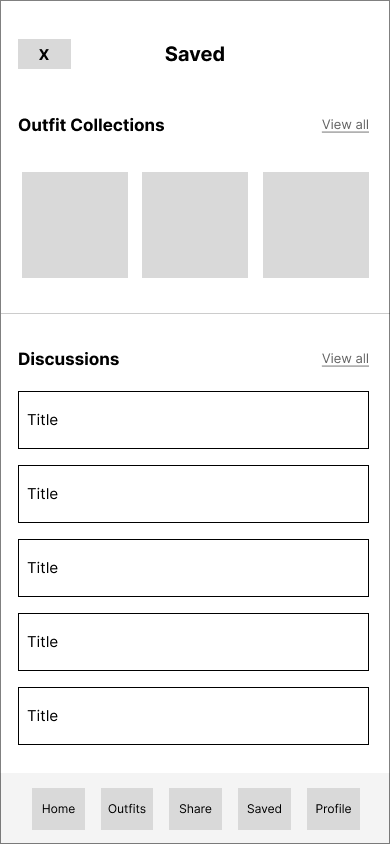
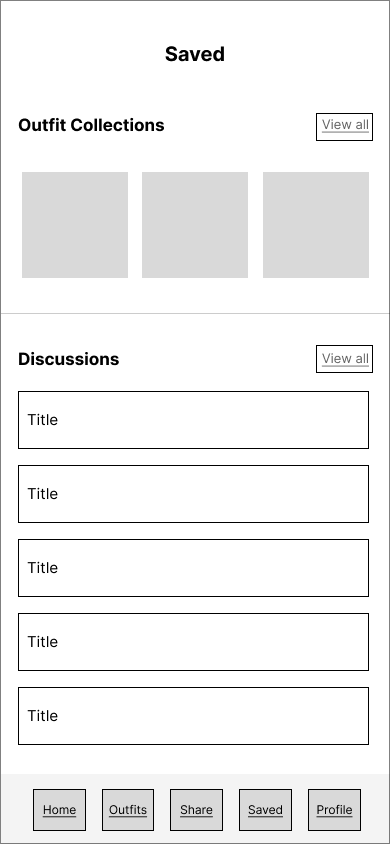
discussion and collection updated

diff --git a/UX-DESIGN.md b/UX-DESIGN.md
@@ -139,27 +139,47 @@ Replace the contents of this file with the completed assignments, as described i
 
 ### Saved Items :
 <img src="./ux-design/3a-saved-items.png" alt = "Saved Items" width = "25%"> <br/>
-
-- User can view their saved outfit posts and discussion threads in the "Saved" page. 
+- Displays saved outfit posts and discussion threads with titles.
 - Press "View All" to see an expanded view of the discussions or collections saved.
 - User may click on individual item and post to see their details.
-- Navigation bar is at the bottom of the screen.
-- User can exit the page by clicking the top-left "X" button.
+
+### Saved Outfit Collections:
+<img src="./ux-design/3h-saved-collections.png" alt = "Post discussion" width = "25%"> <br/>
+- Displays expanded view of the saved outfit collections.
+- User may click on listed outfits pictures to view the original post.
+- User can return to the previous the page by clicking the top-left "X" button.
+
+### Saved Discussions:
+<img src="./ux-design/3i-saved-discussions.png" alt = "Post discussion" width = "25%"> <br/>
+- Displays expanded view of the saved discussions with titles and an overview of the post.
+- User may click on listed discussions to view the original post.
+- User can return to the previous the page by clicking the top-left "X" button.
+
 
 ### Discussion Feed :
 <img src="./ux-design/3b-discussion-feed.png" alt = "Discussion Feed" width = "25%"> <br/>
 
-- Search for posts using the bar at the top.
+
 - Displays discussion posts with author information, date, title, and a pre-view of the post.
-- User may sort discussion posts by most recent or most popular.
-- Like a post by clicking on the heart icon at the bottom left 
-- Leave comments for a post by clicking on the message icon. User will enter the comment section of the post.
+- User can search for posts using the search bar "search HighVintage" at the top.
+- User may sort discussion posts by most recent or most popular using the "Most Recent" and "Most Popular" button.
+- Like a discussion post by clicking on "Like" button.
+- Leave comments for a post by clicking on "Comment". User will enter the comment section of the post.
 - Post new discussion posts using the "post" button at the bottom.
 
 ### Post Discussion :
 <img src="./ux-design/3c-post-discussion.png" alt = "Post discussion" width = "25%"> <br/>
 
 - Displays a form that requires title and the text of a discussion post.
+- User can return to the previous the page by clicking the top-left "X" button.
+- Click on "Post" to post the current discussion
+
+### View Discussion:
+<img src="./ux-design/3d-view-discussion.png" alt = "Post discussion" width = "25%"> <br/>
+- Displays an specific example discussion post with a comment section.
+- Click on "Post Comment" to post new comments to the original post 
+- Click on "Comment" to comment under other's comments.
+- User can like a comment with the "like" button aligned to the right of each comment.
 - User can return to the previous the page by clicking the top-left "X" button.
 
 
